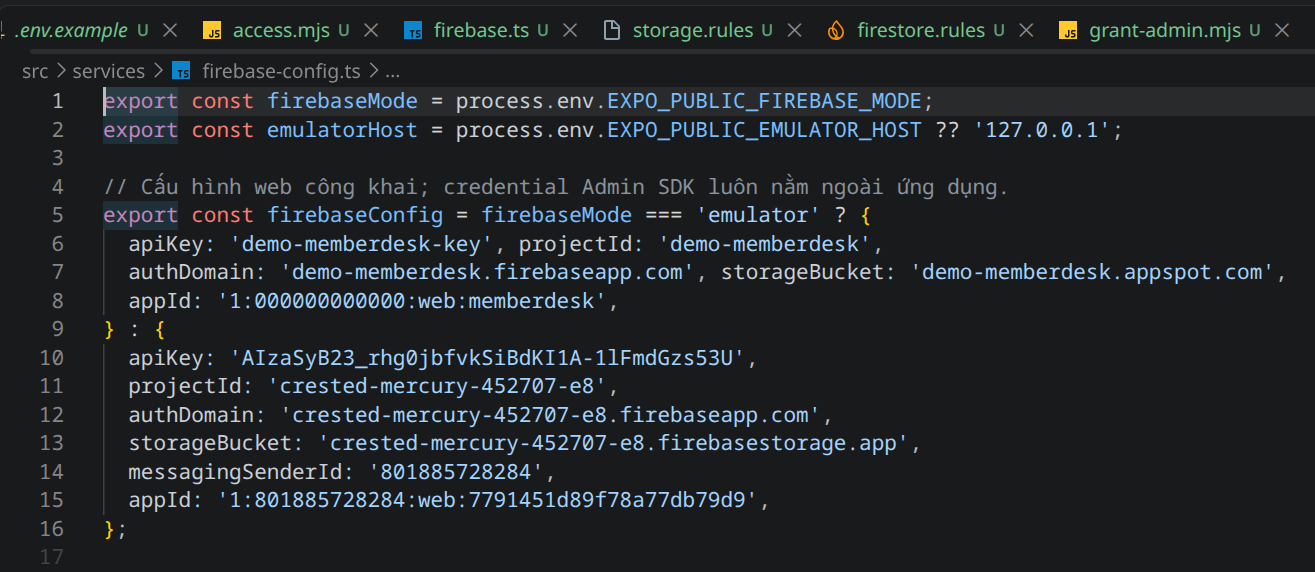
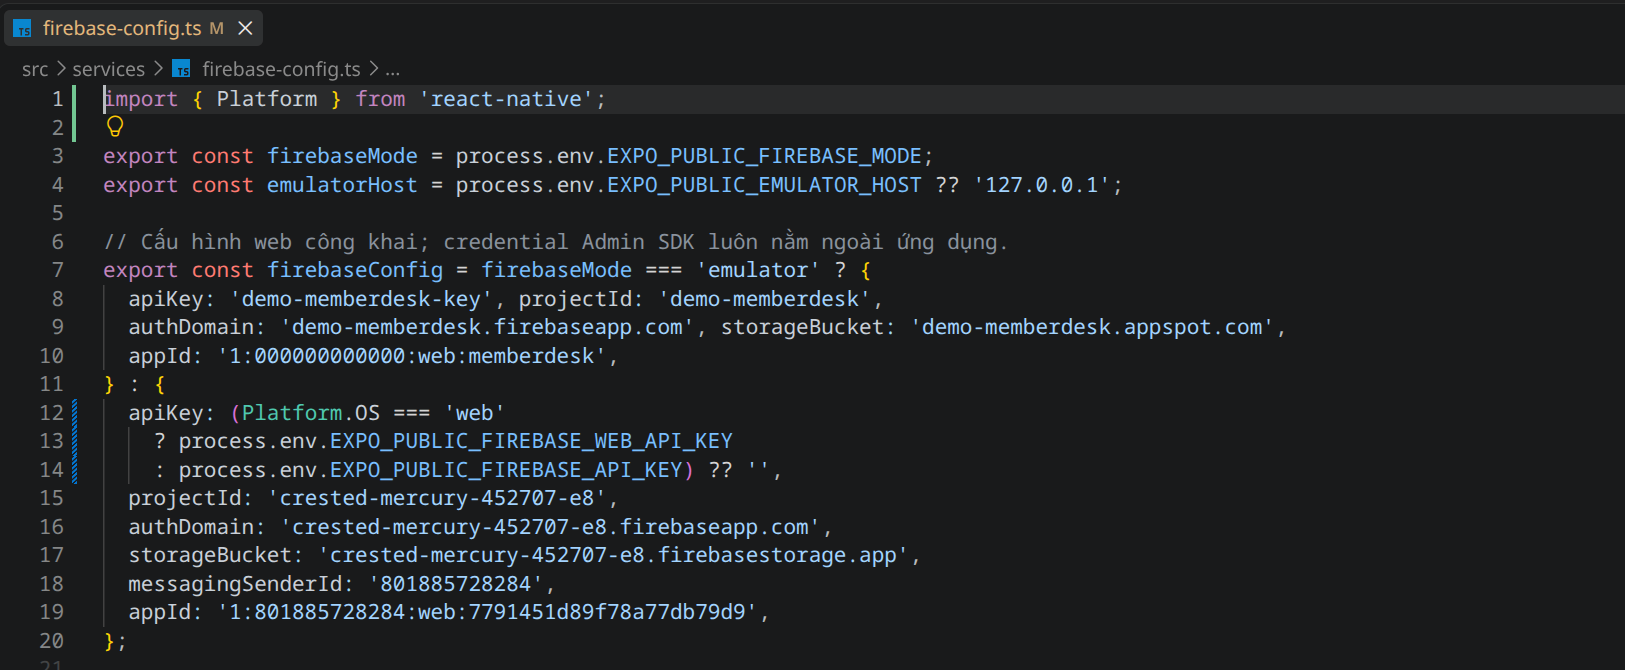
fix: isolate MemberDesk client API keys

Changed region(s): [[0.0, 0.0297, 0.9665, 0.9808]]

diff --git a/src/services/firebase-config.ts b/src/services/firebase-config.ts
@@ -1,3 +1,5 @@
+import { Platform } from 'react-native';
+
 export const firebaseMode = process.env.EXPO_PUBLIC_FIREBASE_MODE;
 export const emulatorHost = process.env.EXPO_PUBLIC_EMULATOR_HOST ?? '127.0.0.1';
 
@@ -7,7 +9,9 @@ export const firebaseConfig = firebaseMode === 'emulator' ? {
   authDomain: 'demo-memberdesk.firebaseapp.com', storageBucket: 'demo-memberdesk.appspot.com',
   appId: '1:000000000000:web:memberdesk',
 } : {
-  apiKey: 'AIzaSyB23_rhg0jbfvkSiBdKI1A-1lFmdGzs53U',
+  apiKey: (Platform.OS === 'web'
+    ? process.env.EXPO_PUBLIC_FIREBASE_WEB_API_KEY
+    : process.env.EXPO_PUBLIC_FIREBASE_API_KEY) ?? '',
   projectId: 'crested-mercury-452707-e8',
   authDomain: 'crested-mercury-452707-e8.firebaseapp.com',
   storageBucket: 'crested-mercury-452707-e8.firebasestorage.app',

diff --git a/src/services/firebase.ts b/src/services/firebase.ts
@@ -9,6 +9,9 @@ export function getFirebase() {
   if (firebaseMode !== 'emulator' && firebaseMode !== 'cloud') {
     throw new Error('Chưa cấu hình môi trường. Xem hướng dẫn chạy trong README.');
   }
+  if (firebaseMode === 'cloud' && !firebaseConfig.apiKey) {
+    throw new Error('Thiếu Firebase API key. Điền .env.local theo README.');
+  }
   const app = getApps().length ? getApp() : initializeApp(firebaseConfig);
   let auth;
   try { auth = initializeAuth(app, { persistence: authPersistence }); }

diff --git a/docs/submition/README.md b/docs/submition/README.md
@@ -25,7 +25,7 @@ Không đặt số lượng ảnh làm mục tiêu. Một ảnh có thể thể 
 
 | Ảnh dự kiến | Loại | Nội dung cần thấy | Tiêu chí | Trạng thái |
 | --- | --- | --- | --- | --- |
-| `c1-01-env-versions.png` | Bước làm | Terminal: phiên bản Node, pnpm, Expo CLI; Firebase CLI ghi riêng trong tài liệu 04 | R01, S02 | Đã chụp; có bản khoanh vùng |
+| `c1-01-env-versions-marked.png` | Bước làm | Terminal: phiên bản Node, pnpm, Expo CLI; Firebase CLI ghi riêng trong tài liệu 04 | R01, S02 | Đã chụp; có bản khoanh vùng |
 | `c1-02-starter-errors.png` | Kiểm tra | Hai lỗi lint/typecheck ban đầu và lệnh thật | S01–S02 | Không có ảnh lúc lỗi ban đầu; ghi lỗi lịch sử ở tài liệu 04, không dựng lại |
 | `c1-03-starter-fix-code.png` | Code | Đoạn sửa lỗi starter, khoanh đúng phần thay đổi | S01 | Đã chụp VS Code; hook hydration, bộ tab starter đã bỏ vì không dùng |
 | `c1-04-starter-checks.png` | Kết quả | Chạy lại lint/typecheck sau sửa; lỗi còn thì ghi đúng | S01–S02 | Đã chụp; lint/typecheck và 2 test API qua |
@@ -37,10 +37,10 @@ Không đặt số lượng ảnh làm mục tiêu. Một ảnh có thể thể 
 | `c1-10-auth-provider.png` | Bước làm | Thiết lập phương thức đăng nhập admin trong Console | R05, S01 | Đã chụp, file thực tế .jpg; có bản khoanh vùng |
 | `c1-11-admin-claim-code.png` | Code | Công cụ cấp claim admin đúng tài khoản demo; không chụp mật khẩu/token | R05, S01 | Đã chụp công cụ cấp claim, không mở credential |
 | `c1-12-api-config.png` | Bước làm | Cấu hình mẫu API và địa chỉ kết nối, không mở file credential thật | S01–S02 | Đã chụp Function HTTPS và giới hạn instance |
-| `c1-13-admin-guard-code.png` | Code | Server xác minh token và claim admin; chặn request thiếu quyền | R05 | Đã chụp lại bằng VS Code, có bản khoanh vùng |
+| `c1-13-admin-guard-code-marked.png` | Code | Server xác minh token và claim admin; chặn request thiếu quyền | R05 | Đã chụp lại bằng VS Code, có bản khoanh vùng |
 | `c1-14-rules-before.png` | Bước làm | Kiểm tra rules hiện có, vùng dữ liệu dùng chung và rule Storage hết hạn | R02, S01 | Rule cũ hết hạn hiện trong c1-15; bản sao trước deploy giữ riêng, không đưa Git |
 | `c1-15-rules-code.png` | Code | Rules giới hạn collection/prefix/quyền/loại ảnh/dung lượng của bài | R02, R05, R11 | Đã chụp hai file c1-15-firestore-rules-code và c1-15-storage-rules-code |
-| `c1-16-emulators-running.png` | Bước làm | Lệnh khởi chạy Emulator và cổng dịch vụ đã lên | S02 | Đã chụp lệnh/cổng/ready, có bản khoanh vùng |
+| `c1-16-emulators-running-marked.png` | Bước làm | Lệnh khởi chạy Emulator và cổng dịch vụ đã lên | S02 | Đã chụp lệnh/cổng/ready, có bản khoanh vùng |
 | `c1-17-auth-rules-tests.png` | Kiểm tra | Kết quả cho có/không token, không admin, sai prefix và quá dung lượng | R05, R09 | Đã chụp: 9/9, exit 0; PERMISSION_DENIED là nhánh cố ý thử bị chặn |
 | `c1-18-admin-login.png` | Kết quả | Giao diện và kết quả đăng nhập đúng bằng tài khoản demo | R05 | Đã chụp cloud, file thực tế .jpg; tải lại giữ phiên |
 | `c1-19-login-error.png` | Kết quả | Đăng nhập sai hiện lỗi dễ hiểu, không lộ credential | R05 | Đã chụp cloud, file thực tế .jpg; có bản khoanh vùng |
@@ -48,7 +48,9 @@ Không đặt số lượng ảnh làm mục tiêu. Một ảnh có thể thể 
 
 ### Ghi chú ảnh C1 đã có
 
-Ảnh chụp ngày 10/11/2026 trên laptop KDE, chỉ cửa sổ VS Code/Konsole bên trái hoặc riêng tab IAB 1280 × 720. Đã crop, kiểm tra credential/nội dung riêng; chưa đưa vào Word. Các ảnh code dưới đây cùng checkpoint commit `feat: establish secure cloud admin access` (tra SHA bằng `git log --all --grep` với tiêu đề này), sẽ dùng cùng ảnh chạy tương ứng. Ảnh chưa chụp lúc cài/lỗi cũ không được dựng lại.
+Ảnh chụp ngày 10/11/2026 trên laptop KDE, cửa sổ VS Code/Konsole bên trái hoặc tab trình duyệt. Các ảnh 08, 09 đã chụp lại từ VS Code sau khi tách key; ảnh 18 và 23 chụp Chrome 1675 × 882 rồi crop. Các ảnh IAB cũ còn dùng chỉ ghi đúng nguồn, sẽ thay khi chụp lại luồng tương ứng. Bản không đánh dấu bị trùng với bản `-marked` đã bỏ khỏi bộ nộp, giữ riêng trong `docs/private/raw/`. Hai ảnh Word gốc không đổi. Ảnh chưa có lúc cài/lỗi cũ không được dựng lại.
+
+Code gốc ở commit `feat: establish secure cloud admin access`; ảnh 08/09/23 theo commit `fix: isolate MemberDesk client API keys`. Tra SHA bằng `git log --all --grep` theo tiêu đề. Lần sửa key được đối chiếu với ảnh đăng nhập Chrome 18 và biên nhận cloud mới.
 
 | File ảnh | Nguồn/code và điều đã quan sát | Ảnh/kết quả liên quan |
 | --- | --- | --- |
@@ -69,6 +71,8 @@ Không đặt số lượng ảnh làm mục tiêu. Một ảnh có thể thể 
 | [19 — Sai mật khẩu](screenshots/c1-19-login-error-marked.jpg) | Nhập mật khẩu sai, lỗi tiếng Việt; không lộ mật khẩu/token | R05 |
 | [21 — Hosting](screenshots/c1-21-hosting-site-marked.jpg), [domain](screenshots/c1-21-hosting-domains.jpg) | Console: site riêng và hai domain mặc định; crop bỏ email tài khoản | Web cloud ảnh 18–20 |
 | [22 — Dependency](screenshots/c1-22-installed-packages.png) | Kiểm tra `package.json` sau cài, không phải ảnh lệnh cài ban đầu | Manifest/lockfile và export web |
+| [23 — Key riêng](screenshots/c1-23-memberdesk-api-keys.jpg) | Chrome: hai key MemberDesk có API restriction; web thêm referrer, không mở giá trị key | Biên nhận `api-key-restrictions.json`, cloud và ảnh 18 |
+| [24 — Android](screenshots/c1-24-android-admin-session.png) | Pixel8_API36, Expo Go SDK 58, cùng source chạy qua Metro:8082/ADB reverse; đăng nhập admin cloud bằng key native mới | Chỉ xác nhận đăng nhập; chưa phải hồ sơ/camera C4 |
 | [20 — Guard UI](screenshots/c1-20-access-denied.jpg) | Đăng xuất rồi truy cập `/`, router đưa về `/sign-in` | R05 |
 
 [Biên nhận cloud](evidence/cloud-access-check.json): admin Auth/API 200, thiếu token 401, Firestore deny, Storage SDK upload/download khớp, overwrite/guest bị chặn. Fixture mới đã dọn; chưa phải hồ sơ/ảnh mobile hoàn thành.

diff --git a/docs/03-kien-truc-va-du-lieu.md b/docs/03-kien-truc-va-du-lieu.md
@@ -4,6 +4,8 @@
 
 Theo yêu cầu triển khai cloud ngày 10/11/2026, web và API dùng HTTPS, hoạt động độc lập với laptop. Giữ project Blaze và bucket đang có, không đổi billing.
 
+Ứng dụng dùng **một codebase Expo + React Native + TypeScript**. Các màn hình trong `src/app/`, component và service dùng chung Android/iOS/Web, bố cục thay đổi theo kích thước. Không có dự án frontend web thứ hai. Firebase đăng ký web app MemberDesk vì dùng JavaScript SDK cả trong Expo Go; tên nền tảng của đăng ký SDK không giới hạn nền tảng chạy app. `server/` là API, không phải frontend web riêng. iOS chưa được chạy thử trên laptop Linux.
+
 - Web Expo SDK 58: https://memberdesk-801885728284.web.app, site riêng `memberdesk-801885728284`.
 - API Node 22: Function gen 2 `memberdeskApi`, codebase `memberdesk`, vùng `us-central1`. Hosting chuyển `/api/**` tới Function. Không sửa Function `app` và site mặc định của project cũ.
 - Firebase Auth Email/Password đăng nhập admin, claim `admin: true`. API xác minh token và tài khoản bị khóa/thu hồi. Đã kiểm tra phiên HTTPS; CRUD/băm mật khẩu thuộc C2–C3, chưa hoàn thành ở C1.
@@ -44,6 +46,10 @@ Chọn Storage thay base64. Đã kiểm tra upload/tải lại JPEG 2.108 byte b
 - Chỉ bỏ index `matkhau`/`hinhanh` nếu có nhu cầu và sau khi kiểm tra cấu hình đang dùng; không tự thay index toàn project.
 
 ## Quyền và credential
+
+MemberDesk có đăng ký app riêng, nhưng Auth, Firestore và Storage vẫn là tài nguyên của project dùng chung. App ID và API key không tạo ranh giới dữ liệu. Collection/prefix riêng, rules và API kiểm tra admin mới bảo vệ phần của bài.
+
+Ngày 10/11: tách key `MemberDesk web` (bốn API Firebase, referrer Hosting/localhost:8081) và `MemberDesk native` (bốn API, dùng Expo Go). Key lấy từ `.env.local` ignored; client key vẫn có trong bản build. Key Browser cũ còn được app `NgyenVanRin 8.2 9lessons` dùng; chưa thu hồi để tránh làm hỏng app đó. GitHub alert lịch sử chưa được đóng như đã thu hồi. Biến môi trường không xóa key khỏi lịch sử Git.
 
 Client không đọc/ghi trực tiếp collection chứa hash. Rules chặn truy cập trực tiếp; Admin SDK bỏ qua rules nên API bắt buộc kiểm tra token, claim và schema. Rules wildcard cũ có thể cho phép truy cập dù thêm rule deny mới: phải đọc rules hiện tại và kiểm thử thực tế trước khi deploy. Không ghi đè rules toàn project cá nhân. Nếu không cô lập an toàn được, đề xuất project riêng trước khi thay đổi.
 

diff --git a/docs/04-thiet-lap.md b/docs/04-thiet-lap.md
@@ -37,7 +37,9 @@ Tám skill trong `.agents/skills/`: `firebase-basics`, `firebase-auth-basics`, `
 
 ## File google-services.json đã gửi
 
-File Downloads thuộc đúng project nhưng hai client là `com.nrin31266.ecommercemultivendor` và `com.nrin31266.shoppingapp`. Không lấy package/appId của ứng dụng cũ. Bài dùng Firebase JS SDK với web app riêng MemberDesk, ID `1:801885728284:web:7791451d89f78a77db79d9`; config public trong `src/services/firebase-config.ts`. Không cần chép `google-services.json` này vào Expo Go.
+File Downloads thuộc đúng project nhưng hai client là `com.nrin31266.ecommercemultivendor` và `com.nrin31266.shoppingapp`. Không lấy package/appId của ứng dụng cũ. Bài dùng Firebase JS SDK với web app riêng MemberDesk, ID `1:801885728284:web:7791451d89f78a77db79d9`; config public trong `src/services/firebase-config.ts`. Không cần chép `google-services.json` này vào Expo Go. Cùng source Expo chạy Android/iOS/Web; đăng ký SDK loại web không có nghĩa chỉ làm website.
+
+Đã tách hai key MemberDesk, đưa giá trị vào `.env.local` ignored và chặn literal key trong source bằng test. Web key giới hạn referrer và bốn API, native key giới hạn bốn API. Node SDK kiểm tra Auth/API/Firestore/Storage đạt bằng key mới; kiểm tra web thiếu/sai referrer bị 403, đúng referrer tới Auth; Chrome đăng nhập thành công trên Hosting. Key cũ dùng chung app khác nên chưa revoke; alert GitHub lịch sử còn mở. Log có sẵn trong hai giờ chỉ có hai sự kiện Auth, không đủ kết luận không bị lạm dụng. Xem biên nhận trong `submition/evidence/`.
 
 Config client không phải quyền truy cập. Quyền nằm ở Auth, API và rules; credential server không được đặt trong `EXPO_PUBLIC_*`.
 

diff --git a/README.md b/README.md
@@ -11,12 +11,15 @@ Cần Node 24, pnpm 11. App dùng config web public; không cần ADC hay key se
 ```bash
 pnpm install --frozen-lockfile
 cp .env.example .env.local
+# Điền hai Firebase API key riêng MemberDesk trước khi chạy cloud.
 pnpm exec expo start --web
 # Hoặc mở Expo Go SDK 58 trên thiết bị để chạy mobile
 pnpm exec expo start
 ```
 
 Dùng tài khoản admin được cấp riêng. Không có mật khẩu mặc định trong Git. Máy đang triển khai có file ignored `docs/private/cloud-admin.json`; không chia sẻ/chụp file đó. Tài khoản thành viên được quản lý không phải tài khoản đăng nhập Firebase Auth.
+
+Firebase client key có mặt trong bản build công khai; biến môi trường chỉ tránh ghi literal key vào source/Git. Web dùng `EXPO_PUBLIC_FIREBASE_WEB_API_KEY` giới hạn domain Hosting và localhost:8081; Expo Go dùng `EXPO_PUBLIC_FIREBASE_API_KEY` giới hạn API Firebase. Lấy key từ quản trị project, không commit `.env.local`. Quyền dữ liệu vẫn do Auth, API và rules kiểm soát. Không dùng key của app cũ.
 
 ## Thử bằng Emulator
 
